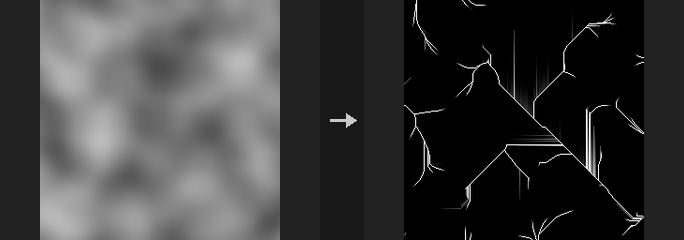
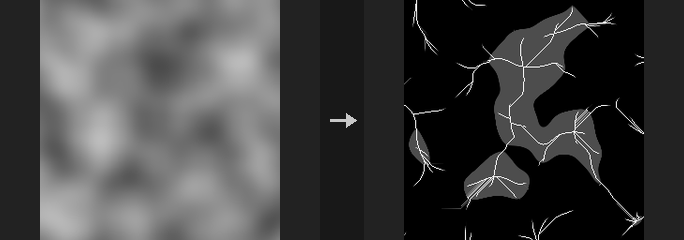
Flow Accumulation: route lake water along the drowned valley

diff --git a/docs/html/reference/cop-terrain.html b/docs/html/reference/cop-terrain.html
@@ -71,7 +71,7 @@
 <p><code>PCG_COPFlowAccumulation</code> · category <code>PCG/cop</code></p>
 <p>Computes how much upstream area drains through each pixel of a height field, and derives river, lake and flow direction layers from it.</p>
 <p><img src="../../images/nodes/PCG_COPFlowAccumulation.png" alt="COP Flow Accumulation (PCG): input and result" loading="lazy"></p>
-<p>First the height field is pit-filled with Priority-Flood plus an epsilon: depressions become lakes and every pixel is guaranteed a lower neighbour, so water always reaches an outlet (by default the four image edges; with <code>tile</code> the single lowest point; a base layer restricts outlets to its marked pixels). Then water is passed downstream by one of three methods: D8 (steepest neighbour; rivers are one pixel wide lines at 0 and 45 degrees), Rho8 (randomized D8, unbiased in average direction, seeded by <code>rand_seed</code>) or MFD (split among all lower neighbours by slope to the power of <code>exponent</code>, giving sheet flow on slopes).</p>
+<p>First the height field is pit-filled with Priority-Flood plus an epsilon: depressions become lakes and every pixel is guaranteed a lower neighbour, so water always reaches an outlet (by default the four image edges; with <code>tile</code> the single lowest point; a base layer restricts outlets to its marked pixels). Then water is passed downstream by one of three methods: D8 (steepest neighbour; rivers are one pixel wide lines at 0 and 45 degrees), Rho8 (randomized D8, unbiased in average direction, seeded by <code>rand_seed</code>) or MFD (split among all lower neighbours by slope to the power of <code>exponent</code>, giving sheet flow on slopes). Inside a filled lake the water follows the drowned valley: the flat lake surface only carries the tiny epsilon slope toward the spill point, which would draw ruler-straight lines and hatching, so lake pixels drain along the lowest original terrain under the water to the lake's exit.</p>
 <p>Output layers: <code>flow</code> is the drainage area (in world units squared; resolution independent in channels), <code>river</code> is a river-network mask with a logarithmic soft transition around <code>river_area</code>, <code>lake</code> is the fill depth and <code>flow_dir</code> is the downstream direction (u, v). An empty layer name disables that output. A rain layer, if given, scales rainfall per pixel (e.g. more on windward slopes).</p>
 <p>Water is conserved: the total leaving through the outlets equals the total rainfall, and the report states it. The pit filling is a sequential priority queue and runs on the CPU only (about 3 s for 1024x1024).</p>
 <p><strong>Inputs</strong></p>

diff --git a/geo/cop/flow.py b/geo/cop/flow.py
@@ -30,7 +30,8 @@ neighbor it is raised to "one ulp above it" (math.nextafter). Result:
   · pits are filled flat and become lakes -- the `lake` layer = fill depth
   · **every non-outlet pixel has a strictly lower neighbor** (the one that flooded it), so
     steepest descent always finds a receiver and water always reaches an outlet. The same holds on flat lake surfaces (a one-ulp
-    slope points to the outlet)
+    slope points to the outlet). Flow accumulation does not route lake water down that slope, though: it would draw straight
+    0° / 45° lines across every lake. lake_routes sends it along the drowned valley instead
 
 The heap part is sequential and unavoidable: about 3-4 s at 1024^2 (pure Python). But it runs only **once** per run
 -- stream power's implicit scheme **never creates new pits** (proof in stream_power's notes),
@@ -269,6 +270,83 @@ def mfd(f, seed_mask, tile=False, exponent=1.1):
     return src, T[src, kk], wgt[src, kk]
 
 
+# ═══════════════════════════════════════════════════════════ Routing across lakes
+def lake_routes(f, h, seed_mask, tile=False):
+    """
+    Receivers for the pixels of filled lakes, following the **drowned valley** instead of the ε slope.
+
+    After Priority-Flood + ε a lake is flat up to a few ulp, and those ulp increase with breadth-first distance from the
+    spill point. Steepest descent on that surface walks Chebyshev rings: every lake turns into ruler-straight 0° / 45° lines
+    and parallel hatching, and a long filled valley floor into one straight diagonal. The water level says nothing about
+    where the water goes, so this ignores it and looks at the terrain under the water:
+
+      a second priority flood, restricted to lake pixels (f > h), starting from the lake's **exit pixels** (a lake pixel
+      with a strictly lower non-lake neighbour, which is its receiver) and always expanding the pixel with the lowest
+      **original** height h. Each pixel's receiver is the pixel that reached it.
+
+    The flood runs from the exit down the deepest channel to the bottom of the basin and then spreads up the sides, so
+    the tree drains every lake pixel down into the drowned thalweg and along it to the exit -- one channel through the
+    lake that bends with the valley, not a hatch of lines. The tree is rooted at the exits, so it has no cycles, and an
+    exit's receiver is strictly lower than it, so water still always reaches an outlet.
+
+    Returns (pixel flat indices, their receiver flat indices); empty if there are no lakes. numpy + a heap over lake pixels only.
+    """
+    f = np.asarray(f, np.float64)
+    h = np.asarray(h, np.float64)
+    H, W = f.shape
+    N = H * W
+    fl, hl = f.ravel(), h.ravel()
+    lake = (fl > hl) & ~np.asarray(seed_mask).ravel()
+    ids = np.flatnonzero(lake)
+    if not ids.size:
+        return ids, ids
+    # neighbour table of the lake pixels only: (8, n_lake), -1 outside the image
+    cy, cx = np.divmod(ids, W)
+    T = np.empty((8, ids.size), np.int64)
+    for k, (dx, dy) in enumerate(_DIRS):
+        ty, tx = cy + dy, cx + dx
+        if tile:
+            T[k] = (ty % H) * W + tx % W
+        else:
+            ok = (ty >= 0) & (ty < H) & (tx >= 0) & (tx < W)
+            T[k] = np.where(ok, ty * W + tx, -1)
+    Tc = np.maximum(T, 0)
+    dist = np.asarray(_DIST)[:, None]
+    # exits: steepest strictly lower non-lake neighbour
+    s = np.where((T >= 0) & ~lake[Tc] & (fl[Tc] < fl[ids]), (fl[ids] - fl[Tc]) / dist, -np.inf)
+    k = np.argmax(s, 0)
+    ex = np.isfinite(s[k, np.arange(ids.size)])
+    rcv = np.full(N, -1, np.int64)
+    rcv[ids[ex]] = T[k[ex], np.flatnonzero(ex)]
+    pos = np.full(N, -1, np.int64)
+    pos[ids] = np.arange(ids.size)
+    done = bytearray(ids.size)
+    heap = []
+    for i in np.flatnonzero(ex).tolist():
+        done[i] = 1
+        heap.append((hl[ids[i]], fl[ids[i]], i))
+    heapq.heapify(heap)
+    Tl = T.T.tolist()
+    posl = pos.tolist()
+    hll = hl.tolist()
+    fll = fl.tolist()
+    idl = ids.tolist()
+    push, pop = heapq.heappush, heapq.heappop
+    while heap:
+        _, _, i = pop(heap)
+        c = idl[i]
+        for n in Tl[i]:
+            if n < 0:
+                continue
+            j = posl[n]
+            if j < 0 or done[j]:
+                continue
+            done[j] = 1
+            rcv[n] = c
+            push(heap, (hll[n], fll[n], j))   # ties (dead-flat floors): the ε order, as before
+    return ids, rcv[ids]
+
+
 # ═══════════════════════════════════════════════════════════ Topological batches
 def schedule(N, src, dst):
     """
@@ -416,11 +494,24 @@ def flow_accumulation(img, layer=DEFAULT_LAYER, strength=1.0,
         rho = (np.random.default_rng(int(rand_seed)).random(N)
                if method == "rho8" else None)
         rcv, dist = d8(f, sm, tile, rho)
+        if fill:
+            li, lr = lake_routes(f, h, sm, tile)
+            rcv[li] = lr
         src = np.flatnonzero(rcv >= 0)
         dst = rcv[src]
         wts = np.ones(src.size)
     else:
         src, dst, wts = mfd(f, sm, tile, exponent)
+        if fill:
+            li, lr = lake_routes(f, h, sm, tile)
+            if li.size:
+                # lake pixels: one receiver along the drowned valley instead of sheet flow on the ε slope
+                inl = np.zeros(N, bool)
+                inl[li] = True
+                keep_ = ~inl[src]
+                src = np.concatenate([src[keep_], li])
+                dst = np.concatenate([dst[keep_], lr])
+                wts = np.concatenate([wts[keep_], np.ones(li.size)])
     rain = np.ones(N)
     rl = str(rain_layer).strip()
     if rl:

diff --git a/tests/test_flow.py b/tests/test_flow.py
@@ -368,6 +368,52 @@ check("  monotonically non-decreasing with catchment area", bool((np.diff(rv.rav
 check("  saturates to 1 / 0 at softness/2 orders of magnitude above / below",
       bool((rv[Ar >= 4 * tex * tex * 10 ** 0.25] == 1).all()
            and (rv[Ar <= 4 * tex * tex * 10 ** -0.25] == 0).all()))
+# Across a lake: water follows the drowned valley, not the ε slope of pit filling.
+# A V-shaped valley whose floor snakes (centre y = 64 + 18 sin(x / 14)) and drains to the left edge, dammed at x = 16:
+# behind the dam a winding lake ~90 px long. The ε slope (breadth-first distance to the spill point) sends the water
+# across the lake in straight lines; the drowned valley floor is the sine curve.
+nl_ = 128
+yy_, xx_ = np.mgrid[0:nl_, 0:nl_].astype(float)
+dv_ = yy_ - (64 + 18 * np.sin(xx_ / 14.0))
+hv = 0.001 * xx_ + 0.002 * np.abs(dv_) + 0.1 * (np.abs(xx_ - 16) < 1.5)
+smv = FL.seeds(hv.shape, False, None, hv)
+fv = FL.priority_fill(hv, smv)
+lkv = fv > hv
+
+
+def _acc(r):
+    s_ = np.flatnonzero(r >= 0)
+    return FL.accumulate(r.size, s_, r[s_], np.ones(s_.size), np.ones(r.size),
+                         FL.schedule(r.size, s_, r[s_])).reshape(hv.shape)
+
+
+def _off(A_):     # per lake column x = 30..99: how far the column's biggest flow is from the drowned valley floor
+    return [abs(dv_[np.argmax(np.where(lkv[:, c], A_[:, c], -1)), c]) for c in range(30, 100)]
+
+
+ov, _ = FL.flow_accumulation(himg(hv))
+offv = _off(L(ov, "flow")[..., 0])
+check("lake: the main channel follows the drowned valley floor (every column within 1 px of the sine centre)",
+      bool(lkv.sum() > 3000 and max(offv) <= 1.0), (int(lkv.sum()), round(max(offv), 2)))
+r_eps, _ = FL.d8(fv, smv)
+off_eps = _off(_acc(r_eps))
+check("  negative control: steepest descent on the ε slope cuts straight across (> 15 px off the floor somewhere)",
+      max(off_eps) > 15, round(max(off_eps), 1))
+li_, lr_ = FL.lake_routes(fv, hv, smv)
+check("  every lake pixel gets a receiver; water is conserved for D8, Rho8 and MFD",
+      bool(li_.size == lkv.sum() and (lr_ >= 0).all()) and all(
+          abs(FL.flow_accumulation(himg(hv), method=mt)[1]["outlet_total"] - 1.0) < 1e-9
+          for mt in ("d8", "rho8", "mfd")))
+rnd = np.random.default_rng(3).random((48, 48))
+for _ in range(3):
+    rnd = (rnd + np.roll(rnd, 1, 0) + np.roll(rnd, 1, 1)) / 3
+okr = True
+for mt in ("d8", "rho8", "mfd"):
+    for tl in (False, True):
+        _, rp_ = FL.flow_accumulation(himg(rnd), method=mt, tile=tl)
+        okr &= rp_["lake_pixels"] > 50 and abs(rp_["outlet_total"] - rp_["rain_total"]) < 1e-12
+check("  pitted noise (with and without tile): no cycle, water conserved, for all three methods", bool(okr))
+
 o4, _ = FL.flow_accumulation(himg(ramp), flow_layer="", river_layer="",
                              lake_layer="", dir_layer="flow_dir",
                              keep=False)

diff --git a/nodes_cop.py b/nodes_cop.py
@@ -2134,7 +2134,9 @@ class PCG_COPFlowAccumulation:
     always reaches an outlet (the four edges by default; with tile, the global lowest point; with a Base Layer only that).
     Then water is passed downstream by D8 (the single steepest neighbour; rivers are one-pixel-wide lines at 0° / 45° only), Rho8 (randomised
     D8, unbiased mean direction, randomness set by Rand Seed) or MFD (split among all lower neighbours by slope^Exponent,
-    sheet flow on slopes).
+    sheet flow on slopes). Across a filled lake the water follows the drowned valley: the lake's flat surface (a one-ulp
+    slope toward the spill point) would draw ruler-straight lines and hatching, so lake pixels drain along the lowest
+    original terrain under the water to the lake's exit instead.
 
     Output layers: flow = catchment area (resolution independent in channels), river = a river-network mask with a soft logarithmic transition around River Area,
     lake = how deep it was filled, flow_dir = downstream direction (u, v). Leave a layer name empty to skip it.

diff --git a/tools/doc_images.py b/tools/doc_images.py
@@ -1701,7 +1701,15 @@ _cop("COPContour", _smooth, layer_out="contour", interval=0.05)
 _cop("COPDerivative", _smooth, layer_out="C_magnitude", mode="magnitude")
 _cop("COPThermalErosion", _smooth, layer_out="debris", strength=3.0, iterations=120)
 _cop("COPStreamPower", _smooth, strength=3.0, iterations=200)
-_cop("COPFlowAccumulation", _smooth, layer_out="river")
+def _flow_view():
+    a = _smooth()
+    fa = g("COPFlowAccumulation", cop=a)
+    # rivers white, filled lakes grey (the river mask is 0 inside lakes)
+    out = g("COPWrangle", cop=fa, code="@view = max(@river, 0.3 * smoothstep(0.0, 0.004, @lake))")
+    return {"in": [a], "out": out, "layer_in": "C", "layer_out": "view"}
+
+
+cop_recipe("COPFlowAccumulation", _flow_view)
 _cop("COPFeather", _shape, layer_in="mask", layer_out="mask", width=18.0)
 _cop("COPEikonal", _shape, layer_in="mask", layer_out="arrival")
 cop_recipe("COPText", lambda: {"out": g("COPText", text="PCG", size=110, align="center",

diff --git a/docs/reference/cop-terrain.md b/docs/reference/cop-terrain.md
@@ -169,7 +169,7 @@ Computes how much upstream area drains through each pixel of a height field, and
 
 ![COP Flow Accumulation (PCG): input and result](../images/nodes/PCG_COPFlowAccumulation.png)
 
-First the height field is pit-filled with Priority-Flood plus an epsilon: depressions become lakes and every pixel is guaranteed a lower neighbour, so water always reaches an outlet (by default the four image edges; with `tile` the single lowest point; a base layer restricts outlets to its marked pixels). Then water is passed downstream by one of three methods: D8 (steepest neighbour; rivers are one pixel wide lines at 0 and 45 degrees), Rho8 (randomized D8, unbiased in average direction, seeded by `rand_seed`) or MFD (split among all lower neighbours by slope to the power of `exponent`, giving sheet flow on slopes).
+First the height field is pit-filled with Priority-Flood plus an epsilon: depressions become lakes and every pixel is guaranteed a lower neighbour, so water always reaches an outlet (by default the four image edges; with `tile` the single lowest point; a base layer restricts outlets to its marked pixels). Then water is passed downstream by one of three methods: D8 (steepest neighbour; rivers are one pixel wide lines at 0 and 45 degrees), Rho8 (randomized D8, unbiased in average direction, seeded by `rand_seed`) or MFD (split among all lower neighbours by slope to the power of `exponent`, giving sheet flow on slopes). Inside a filled lake the water follows the drowned valley: the flat lake surface only carries the tiny epsilon slope toward the spill point, which would draw ruler-straight lines and hatching, so lake pixels drain along the lowest original terrain under the water to the lake's exit.
 
 Output layers: `flow` is the drainage area (in world units squared; resolution independent in channels), `river` is a river-network mask with a logarithmic soft transition around `river_area`, `lake` is the fill depth and `flow_dir` is the downstream direction (u, v). An empty layer name disables that output. A rain layer, if given, scales rainfall per pixel (e.g. more on windward slopes).
 

diff --git a/CHANGELOG.md b/CHANGELOG.md
@@ -55,6 +55,9 @@ All notable changes to this project are documented here. The format follows
 - The 3D viewport draws on demand instead of 60 times a second: idle viewports no longer use GPU / CPU.
 
 ### Fixed
+- **COP Flow Accumulation**: water crossing a filled lake no longer runs down the pit-filling epsilon slope,
+  which drew ruler-straight 0° / 45° lines and hatching across every lake and long filled valley floor. Lake pixels
+  now drain along the drowned valley (a second priority flood over the original terrain, from the lake's exit).
 - COP Noise: Tile U is greyed out for the Torus noise type again.
 - Removed unreachable leftover code in the geometry preview renderer and unused variables found by a lint pass.
 
